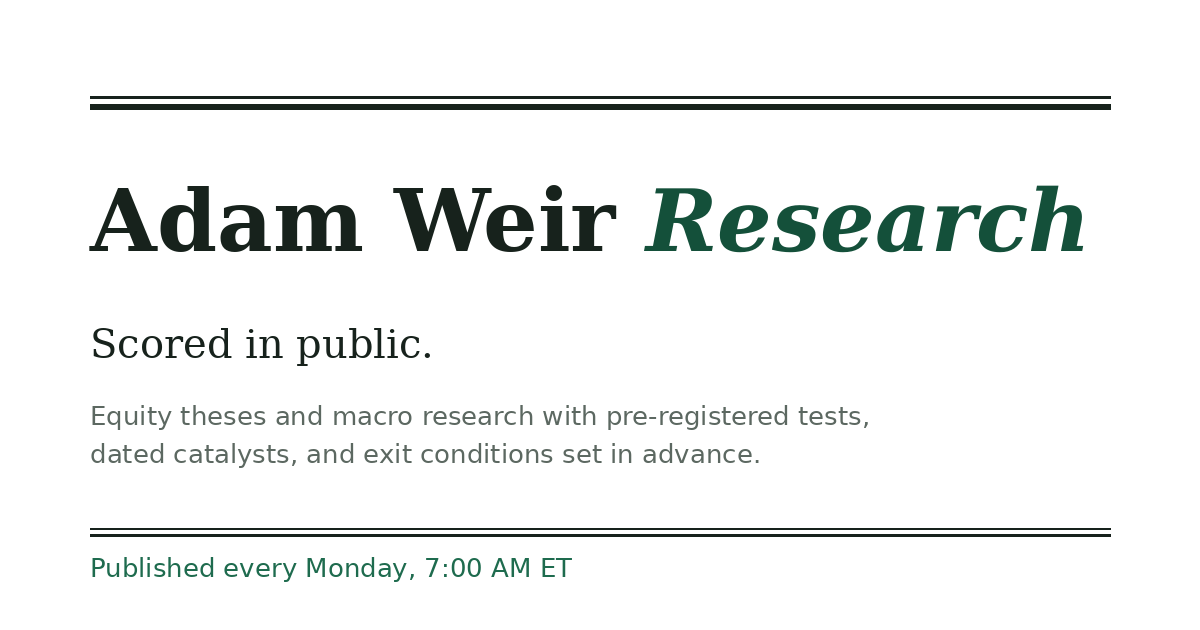
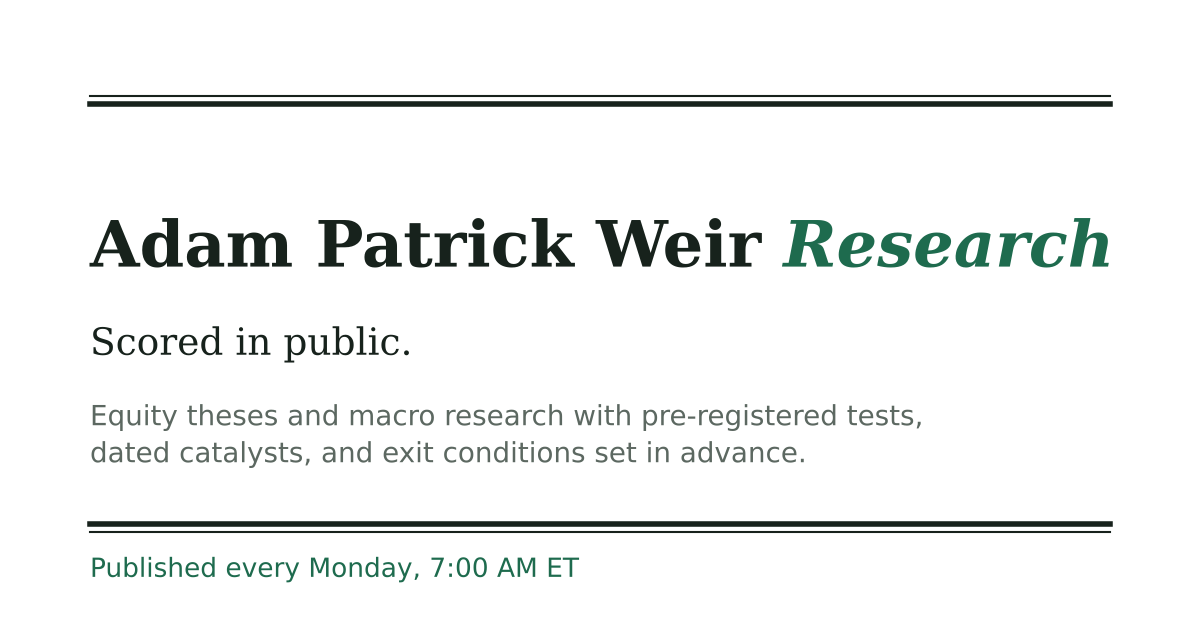
Site-wide: Adam Weir becomes Adam Patrick Weir
Wordmark, page titles, link-preview metadata, bylines, copyright lines
and About prose all carry the full name; the share card is regenerated
to match. No other changes.

Claude-Session: https://claude.ai/code/session_018pACaBukCHWZhNuBoQcb9b

diff --git a/about.html b/about.html
@@ -3,13 +3,13 @@
 <head>
 <meta charset="utf-8">
 <meta name="viewport" content="width=device-width, initial-scale=1">
-<title>About · Adam Weir Research</title>
+<title>About · Adam Patrick Weir Research</title>
 <meta name="description" content="Who writes this, how the scoring works, and the disclaimer.">
 <link rel="icon" type="image/svg+xml" href="assets/favicon.svg">
-<meta property="og:title" content="About · Adam Weir Research">
+<meta property="og:title" content="About · Adam Patrick Weir Research">
 <meta property="og:description" content="Who writes this, how the scoring works, and the disclaimer.">
 <meta property="og:type" content="website">
-<meta property="og:site_name" content="Adam Weir Research">
+<meta property="og:site_name" content="Adam Patrick Weir Research">
 <meta property="og:image" content="https://adamweir4.github.io/research/assets/og-card.png">
 <meta property="og:image:width" content="1200">
 <meta property="og:image:height" content="630">
@@ -24,7 +24,7 @@
 
 <header class="masthead">
   <div class="masthead-inner masthead-row" style="max-width: var(--col-wide);">
-    <a class="wordmark" href="index.html">Adam Weir <em>Research</em></a>
+    <a class="wordmark" href="index.html">Adam Patrick Weir <em>Research</em></a>
     <nav class="site-nav" aria-label="Site">
       <a href="index.html">Home</a>
       <a href="theses.html">Theses</a>
@@ -38,7 +38,7 @@
 <main>
   <div class="prose">
     <h1>About</h1>
-    <p class="dek">I'm Adam Weir. I publish equity theses and macro research, and I score all of it in public.</p>
+    <p class="dek">I'm Adam Patrick Weir. I publish equity theses and macro research, and I score all of it in public.</p>
 
     <p>I'm an MSF student at Indiana University's Kelley School of Business, a member of Kelley's Reese Investment Fund, and a CFA Level I candidate. Before Kelley, I earned a First Class Honours degree in Finance from the University of Glasgow. I've completed three internship stints in buy-side equity research, covering UK retail and defense. This site is where I put my own work on the record.</p>
 
@@ -64,7 +64,7 @@
 
 <footer class="site-foot">
   <div class="foot-inner" style="max-width: var(--col-wide);">
-    <p>© 2026 Adam Weir</p>
+    <p>© 2026 Adam Patrick Weir</p>
   </div>
 </footer>
 

diff --git a/research/ifrs16-credit-spreads.html b/research/ifrs16-credit-spreads.html
@@ -3,13 +3,13 @@
 <head>
 <meta charset="utf-8">
 <meta name="viewport" content="width=device-width, initial-scale=1">
-<title>Lease Capitalisation and Credit Spreads · Adam Weir Research</title>
+<title>Lease Capitalisation and Credit Spreads · Adam Patrick Weir Research</title>
 <meta name="description" content="Does lease capitalisation affect corporate bond credit spreads? Evidence from IFRS 16 adoption in Europe: 59 issuers, 2014–2022, dynamic difference-in-differences.">
 <link rel="icon" type="image/svg+xml" href="../assets/favicon.svg">
-<meta property="og:title" content="Lease Capitalisation and Credit Spreads · Adam Weir Research">
+<meta property="og:title" content="Lease Capitalisation and Credit Spreads · Adam Patrick Weir Research">
 <meta property="og:description" content="Does lease capitalisation affect corporate bond credit spreads? Evidence from IFRS 16 adoption in Europe: 59 issuers, 2014–2022, dynamic difference-in-differences.">
 <meta property="og:type" content="article">
-<meta property="og:site_name" content="Adam Weir Research">
+<meta property="og:site_name" content="Adam Patrick Weir Research">
 <meta property="og:image" content="https://adamweir4.github.io/research/assets/og-card.png">
 <meta property="og:image:width" content="1200">
 <meta property="og:image:height" content="630">
@@ -24,7 +24,7 @@
 
 <header class="masthead">
   <div class="masthead-inner masthead-row" style="max-width: var(--col-wide);">
-    <a class="wordmark" href="../index.html">Adam Weir <em>Research</em></a>
+    <a class="wordmark" href="../index.html">Adam Patrick Weir <em>Research</em></a>
     <nav class="site-nav" aria-label="Site">
       <a href="../index.html">Home</a>
       <a href="../theses.html">Theses</a>
@@ -596,7 +596,7 @@
 <footer class="site-foot">
   <div class="foot-inner" style="max-width: var(--col-wide);">
     <p>More: <a href="../index.html">all writing</a> · <a href="../track-record.html">track record</a></p>
-    <p>© 2026 Adam Weir · <a href="../about.html#disclaimer">Not investment advice</a> · Working paper; comments welcome.</p>
+    <p>© 2026 Adam Patrick Weir · <a href="../about.html#disclaimer">Not investment advice</a> · Working paper; comments welcome.</p>
   </div>
 </footer>
 

diff --git a/updates/divergence-2026.html b/updates/divergence-2026.html
@@ -3,13 +3,13 @@
 <head>
 <meta charset="utf-8">
 <meta name="viewport" content="width=device-width, initial-scale=1">
-<title>Rising Yields, Record Equities · Adam Weir Research</title>
+<title>Rising Yields, Record Equities · Adam Patrick Weir Research</title>
 <meta name="description" content="Yields at a 24-year high, equities at records. Four flags registered in advance, five precedents, and where each flag stands now. First grading 2 November.">
 <link rel="icon" type="image/svg+xml" href="../assets/favicon.svg">
-<meta property="og:title" content="Rising Yields, Record Equities · Adam Weir Research">
+<meta property="og:title" content="Rising Yields, Record Equities · Adam Patrick Weir Research">
 <meta property="og:description" content="Four flags registered in advance for the yields-vs-equities divergence, graded on a schedule.">
 <meta property="og:type" content="article">
-<meta property="og:site_name" content="Adam Weir Research">
+<meta property="og:site_name" content="Adam Patrick Weir Research">
 <meta property="og:image" content="https://adamweir4.github.io/research/assets/og-card.png">
 <meta property="og:image:width" content="1200">
 <meta property="og:image:height" content="630">
@@ -25,7 +25,7 @@
 
 <header class="masthead">
   <div class="masthead-inner masthead-row" style="max-width: var(--col-wide);">
-    <a class="wordmark" href="../index.html">Adam Weir <em>Research</em></a>
+    <a class="wordmark" href="../index.html">Adam Patrick Weir <em>Research</em></a>
     <nav class="site-nav" aria-label="Site">
       <a href="../index.html">Home</a>
       <a href="../theses.html">Theses</a>
@@ -204,7 +204,7 @@
 <footer class="site-foot">
   <div class="foot-inner" style="max-width: var(--col-wide);">
     <p>More: <a href="../index.html">all writing</a> · <a href="../track-record.html">track record</a></p>
-    <p>© 2026 Adam Weir · <a href="../about.html#disclaimer">Not investment advice</a> · I may hold positions in securities discussed.</p>
+    <p>© 2026 Adam Patrick Weir · <a href="../about.html#disclaimer">Not investment advice</a> · I may hold positions in securities discussed.</p>
   </div>
 </footer>
 

diff --git a/pitches/fds-2026-10.html b/pitches/fds-2026-10.html
@@ -3,13 +3,13 @@
 <head>
 <meta charset="utf-8">
 <meta name="viewport" content="width=device-width, initial-scale=1">
-<title>FactSet (FDS): Long · Adam Weir Research</title>
+<title>FactSet (FDS): Long · Adam Patrick Weir Research</title>
 <meta name="description" content="Long FDS at $266.18, blended 12–18 month target $350. Fifteen pre-registered tests, six kill-switches.">
 <link rel="icon" type="image/svg+xml" href="../assets/favicon.svg">
-<meta property="og:title" content="FactSet (FDS): Long · Adam Weir Research">
+<meta property="og:title" content="FactSet (FDS): Long · Adam Patrick Weir Research">
 <meta property="og:description" content="Long FDS at $266.18, blended 12–18 month target $350. Fifteen pre-registered tests, six kill-switches.">
 <meta property="og:type" content="article">
-<meta property="og:site_name" content="Adam Weir Research">
+<meta property="og:site_name" content="Adam Patrick Weir Research">
 <meta property="og:image" content="https://adamweir4.github.io/research/assets/og-card.png">
 <meta property="og:image:width" content="1200">
 <meta property="og:image:height" content="630">
@@ -24,7 +24,7 @@
 
 <header class="masthead">
   <div class="masthead-inner masthead-row" style="max-width: var(--col-wide);">
-    <a class="wordmark" href="../index.html">Adam Weir <em>Research</em></a>
+    <a class="wordmark" href="../index.html">Adam Patrick Weir <em>Research</em></a>
     <nav class="site-nav" aria-label="Site">
       <a href="../index.html">Home</a>
       <a href="../theses.html">Theses</a>
@@ -373,7 +373,7 @@
 <footer class="site-foot">
   <div class="foot-inner" style="max-width: var(--col-wide);">
     <p>More: <a href="../index.html">all writing</a> · <a href="../track-record.html">track record</a></p>
-    <p>© 2026 Adam Weir · <a href="../about.html#disclaimer">Not investment advice</a> · I may hold positions in securities discussed.</p>
+    <p>© 2026 Adam Patrick Weir · <a href="../about.html#disclaimer">Not investment advice</a> · I may hold positions in securities discussed.</p>
   </div>
 </footer>
 

diff --git a/updates/fds-q4-scorecard.html b/updates/fds-q4-scorecard.html
@@ -3,13 +3,13 @@
 <head>
 <meta charset="utf-8">
 <meta name="viewport" content="width=device-width, initial-scale=1">
-<title>FDS Q4 Scorecard · Adam Weir Research</title>
+<title>FDS Q4 Scorecard · Adam Patrick Weir Research</title>
 <meta name="description" content="The 30 September FDS print graded against the scorecard pre-registered on 27 September.">
 <link rel="icon" type="image/svg+xml" href="../assets/favicon.svg">
-<meta property="og:title" content="FDS Q4 Scorecard · Adam Weir Research">
+<meta property="og:title" content="FDS Q4 Scorecard · Adam Patrick Weir Research">
 <meta property="og:description" content="The 30 September FDS print graded against the scorecard pre-registered on 27 September.">
 <meta property="og:type" content="article">
-<meta property="og:site_name" content="Adam Weir Research">
+<meta property="og:site_name" content="Adam Patrick Weir Research">
 <meta property="og:image" content="https://adamweir4.github.io/research/assets/og-card.png">
 <meta property="og:image:width" content="1200">
 <meta property="og:image:height" content="630">
@@ -24,7 +24,7 @@
 
 <header class="masthead">
   <div class="masthead-inner masthead-row" style="max-width: var(--col-wide);">
-    <a class="wordmark" href="../index.html">Adam Weir <em>Research</em></a>
+    <a class="wordmark" href="../index.html">Adam Patrick Weir <em>Research</em></a>
     <nav class="site-nav" aria-label="Site">
       <a href="../index.html">Home</a>
       <a href="../theses.html">Theses</a>
@@ -81,7 +81,7 @@
 <footer class="site-foot">
   <div class="foot-inner" style="max-width: var(--col-wide);">
     <p>More: <a href="../index.html">all writing</a> · <a href="../track-record.html">track record</a></p>
-    <p>© 2026 Adam Weir · <a href="../about.html#disclaimer">Not investment advice</a> · The author may hold positions in securities discussed.</p>
+    <p>© 2026 Adam Patrick Weir · <a href="../about.html#disclaimer">Not investment advice</a> · The author may hold positions in securities discussed.</p>
   </div>
 </footer>
 

diff --git a/index.html b/index.html
@@ -3,13 +3,13 @@
 <head>
 <meta charset="utf-8">
 <meta name="viewport" content="width=device-width, initial-scale=1">
-<title>Adam Weir Research</title>
+<title>Adam Patrick Weir Research</title>
 <meta name="description" content="Equity pitches and macro research with pre-registered tests and exit conditions, scored in public.">
 <link rel="icon" type="image/svg+xml" href="assets/favicon.svg">
-<meta property="og:title" content="Adam Weir Research">
+<meta property="og:title" content="Adam Patrick Weir Research">
 <meta property="og:description" content="Equity pitches and macro research with pre-registered tests and exit conditions, scored in public.">
 <meta property="og:type" content="website">
-<meta property="og:site_name" content="Adam Weir Research">
+<meta property="og:site_name" content="Adam Patrick Weir Research">
 <meta property="og:image" content="https://adamweir4.github.io/research/assets/og-card.png">
 <meta property="og:image:width" content="1200">
 <meta property="og:image:height" content="630">
@@ -24,7 +24,7 @@
 
 <header class="masthead">
   <div class="masthead-inner masthead-row" style="max-width: var(--col-wide);">
-    <a class="wordmark" href="index.html">Adam Weir <em>Research</em></a>
+    <a class="wordmark" href="index.html">Adam Patrick Weir <em>Research</em></a>
     <nav class="site-nav" aria-label="Site">
       <a href="index.html" aria-current="page">Home</a>
       <a href="theses.html">Theses</a>
@@ -153,7 +153,7 @@
 
 <footer class="site-foot">
   <div class="foot-inner" style="max-width: var(--col-wide);">
-    <p>© 2026 Adam Weir · <a href="about.html#disclaimer">Not investment advice</a> · Source and history on <a href="https://github.com/Adamweir4/research">GitHub</a></p>
+    <p>© 2026 Adam Patrick Weir · <a href="about.html#disclaimer">Not investment advice</a> · Source and history on <a href="https://github.com/Adamweir4/research">GitHub</a></p>
   </div>
 </footer>
 

diff --git a/theses.html b/theses.html
@@ -3,13 +3,13 @@
 <head>
 <meta charset="utf-8">
 <meta name="viewport" content="width=device-width, initial-scale=1">
-<title>Theses · Adam Weir Research</title>
+<title>Theses · Adam Patrick Weir Research</title>
 <meta name="description" content="Single-name theses, each registered in advance with pre-registered tests and kill-switches.">
 <link rel="icon" type="image/svg+xml" href="assets/favicon.svg">
-<meta property="og:title" content="Theses · Adam Weir Research">
+<meta property="og:title" content="Theses · Adam Patrick Weir Research">
 <meta property="og:description" content="Single-name theses, each registered in advance with pre-registered tests and kill-switches.">
 <meta property="og:type" content="website">
-<meta property="og:site_name" content="Adam Weir Research">
+<meta property="og:site_name" content="Adam Patrick Weir Research">
 <meta property="og:image" content="https://adamweir4.github.io/research/assets/og-card.png">
 <meta property="og:image:width" content="1200">
 <meta property="og:image:height" content="630">
@@ -24,7 +24,7 @@
 
 <header class="masthead">
   <div class="masthead-inner masthead-row" style="max-width: var(--col-wide);">
-    <a class="wordmark" href="index.html">Adam Weir <em>Research</em></a>
+    <a class="wordmark" href="index.html">Adam Patrick Weir <em>Research</em></a>
     <nav class="site-nav" aria-label="Site">
       <a href="index.html">Home</a>
       <a href="theses.html" aria-current="page">Theses</a>
@@ -55,7 +55,7 @@
 
 <footer class="site-foot">
   <div class="foot-inner" style="max-width: var(--col-wide);">
-    <p>© 2026 Adam Weir · <a href="about.html#disclaimer">Not investment advice</a></p>
+    <p>© 2026 Adam Patrick Weir · <a href="about.html#disclaimer">Not investment advice</a></p>
   </div>
 </footer>
 

diff --git a/track-record.html b/track-record.html
@@ -3,13 +3,13 @@
 <head>
 <meta charset="utf-8">
 <meta name="viewport" content="width=device-width, initial-scale=1">
-<title>Track record · Adam Weir Research</title>
+<title>Track record · Adam Patrick Weir Research</title>
 <meta name="description" content="Every published idea: entry, target, status, outcome. Nothing silently disappears.">
 <link rel="icon" type="image/svg+xml" href="assets/favicon.svg">
-<meta property="og:title" content="Track record · Adam Weir Research">
+<meta property="og:title" content="Track record · Adam Patrick Weir Research">
 <meta property="og:description" content="Every published idea: entry, target, status, outcome. Nothing silently disappears.">
 <meta property="og:type" content="website">
-<meta property="og:site_name" content="Adam Weir Research">
+<meta property="og:site_name" content="Adam Patrick Weir Research">
 <meta property="og:image" content="https://adamweir4.github.io/research/assets/og-card.png">
 <meta property="og:image:width" content="1200">
 <meta property="og:image:height" content="630">
@@ -24,7 +24,7 @@
 
 <header class="masthead">
   <div class="masthead-inner masthead-row" style="max-width: var(--col-wide);">
-    <a class="wordmark" href="index.html">Adam Weir <em>Research</em></a>
+    <a class="wordmark" href="index.html">Adam Patrick Weir <em>Research</em></a>
     <nav class="site-nav" aria-label="Site">
       <a href="index.html">Home</a>
       <a href="theses.html">Theses</a>
@@ -102,7 +102,7 @@
 
 <footer class="site-foot">
   <div class="foot-inner" style="max-width: var(--col-wide);">
-    <p>© 2026 Adam Weir · <a href="about.html#disclaimer">Not investment advice</a></p>
+    <p>© 2026 Adam Patrick Weir · <a href="about.html#disclaimer">Not investment advice</a></p>
   </div>
 </footer>
 

diff --git a/research.html b/research.html
@@ -3,13 +3,13 @@
 <head>
 <meta charset="utf-8">
 <meta name="viewport" content="width=device-width, initial-scale=1">
-<title>Research · Adam Weir Research</title>
+<title>Research · Adam Patrick Weir Research</title>
 <meta name="description" content="Macro reports, thematic notes, and working papers.">
 <link rel="icon" type="image/svg+xml" href="assets/favicon.svg">
-<meta property="og:title" content="Research · Adam Weir Research">
+<meta property="og:title" content="Research · Adam Patrick Weir Research">
 <meta property="og:description" content="Macro reports, thematic notes, and working papers.">
 <meta property="og:type" content="website">
-<meta property="og:site_name" content="Adam Weir Research">
+<meta property="og:site_name" content="Adam Patrick Weir Research">
 <meta property="og:image" content="https://adamweir4.github.io/research/assets/og-card.png">
 <meta property="og:image:width" content="1200">
 <meta property="og:image:height" content="630">
@@ -24,7 +24,7 @@
 
 <header class="masthead">
   <div class="masthead-inner masthead-row" style="max-width: var(--col-wide);">
-    <a class="wordmark" href="index.html">Adam Weir <em>Research</em></a>
+    <a class="wordmark" href="index.html">Adam Patrick Weir <em>Research</em></a>
     <nav class="site-nav" aria-label="Site">
       <a href="index.html">Home</a>
       <a href="theses.html">Theses</a>
@@ -70,7 +70,7 @@
 
 <footer class="site-foot">
   <div class="foot-inner" style="max-width: var(--col-wide);">
-    <p>© 2026 Adam Weir · <a href="about.html#disclaimer">Not investment advice</a></p>
+    <p>© 2026 Adam Patrick Weir · <a href="about.html#disclaimer">Not investment advice</a></p>
   </div>
 </footer>
 

diff --git a/404.html b/404.html
@@ -3,7 +3,7 @@
 <head>
 <meta charset="utf-8">
 <meta name="viewport" content="width=device-width, initial-scale=1">
-<title>Page not found · Adam Weir Research</title>
+<title>Page not found · Adam Patrick Weir Research</title>
 <link rel="icon" type="image/svg+xml" href="/research/assets/favicon.svg">
 <link rel="preconnect" href="https://fonts.googleapis.com">
 <link rel="preconnect" href="https://fonts.gstatic.com" crossorigin>
@@ -15,7 +15,7 @@
 
 <header class="masthead">
   <div class="masthead-inner masthead-row" style="max-width: var(--col-wide);">
-    <a class="wordmark" href="/research/index.html">Adam Weir <em>Research</em></a>
+    <a class="wordmark" href="/research/index.html">Adam Patrick Weir <em>Research</em></a>
     <nav class="site-nav" aria-label="Site">
       <a href="/research/index.html">Home</a>
       <a href="/research/theses.html">Theses</a>
@@ -36,7 +36,7 @@
 
 <footer class="site-foot">
   <div class="foot-inner" style="max-width: var(--col-wide);">
-    <p>© 2026 Adam Weir · <a href="/research/about.html#disclaimer">Not investment advice</a></p>
+    <p>© 2026 Adam Patrick Weir · <a href="/research/about.html#disclaimer">Not investment advice</a></p>
   </div>
 </footer>
 
